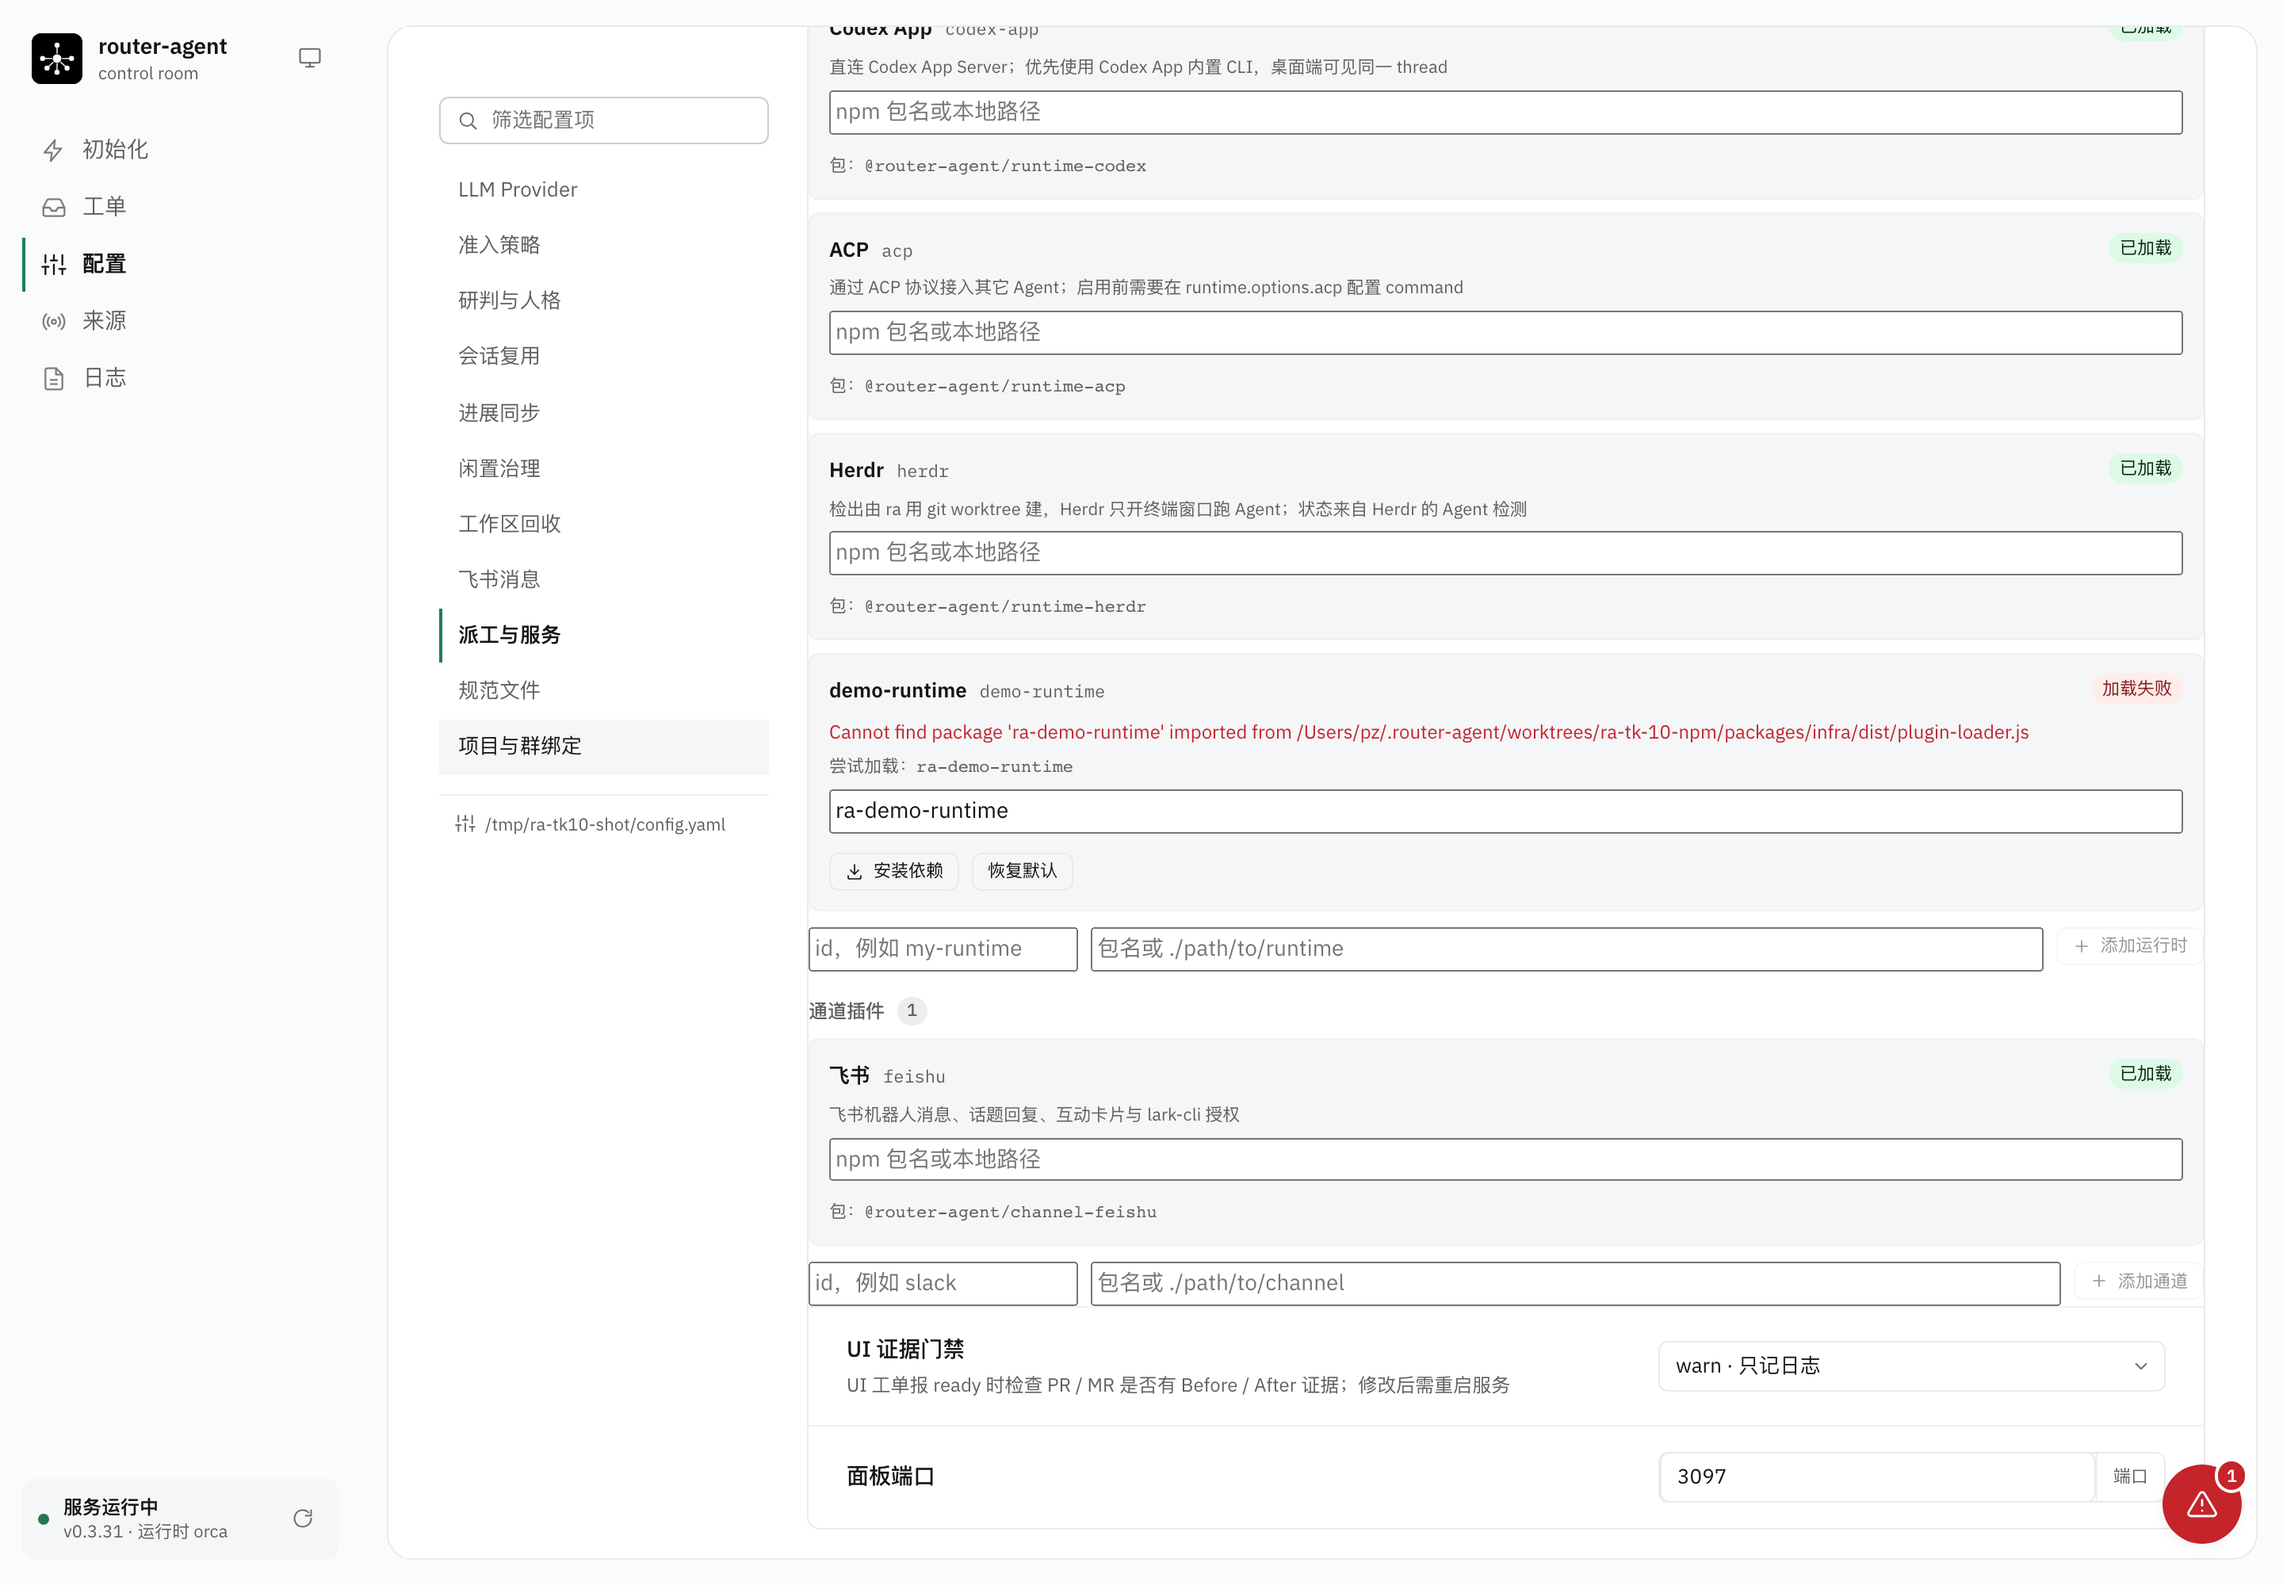
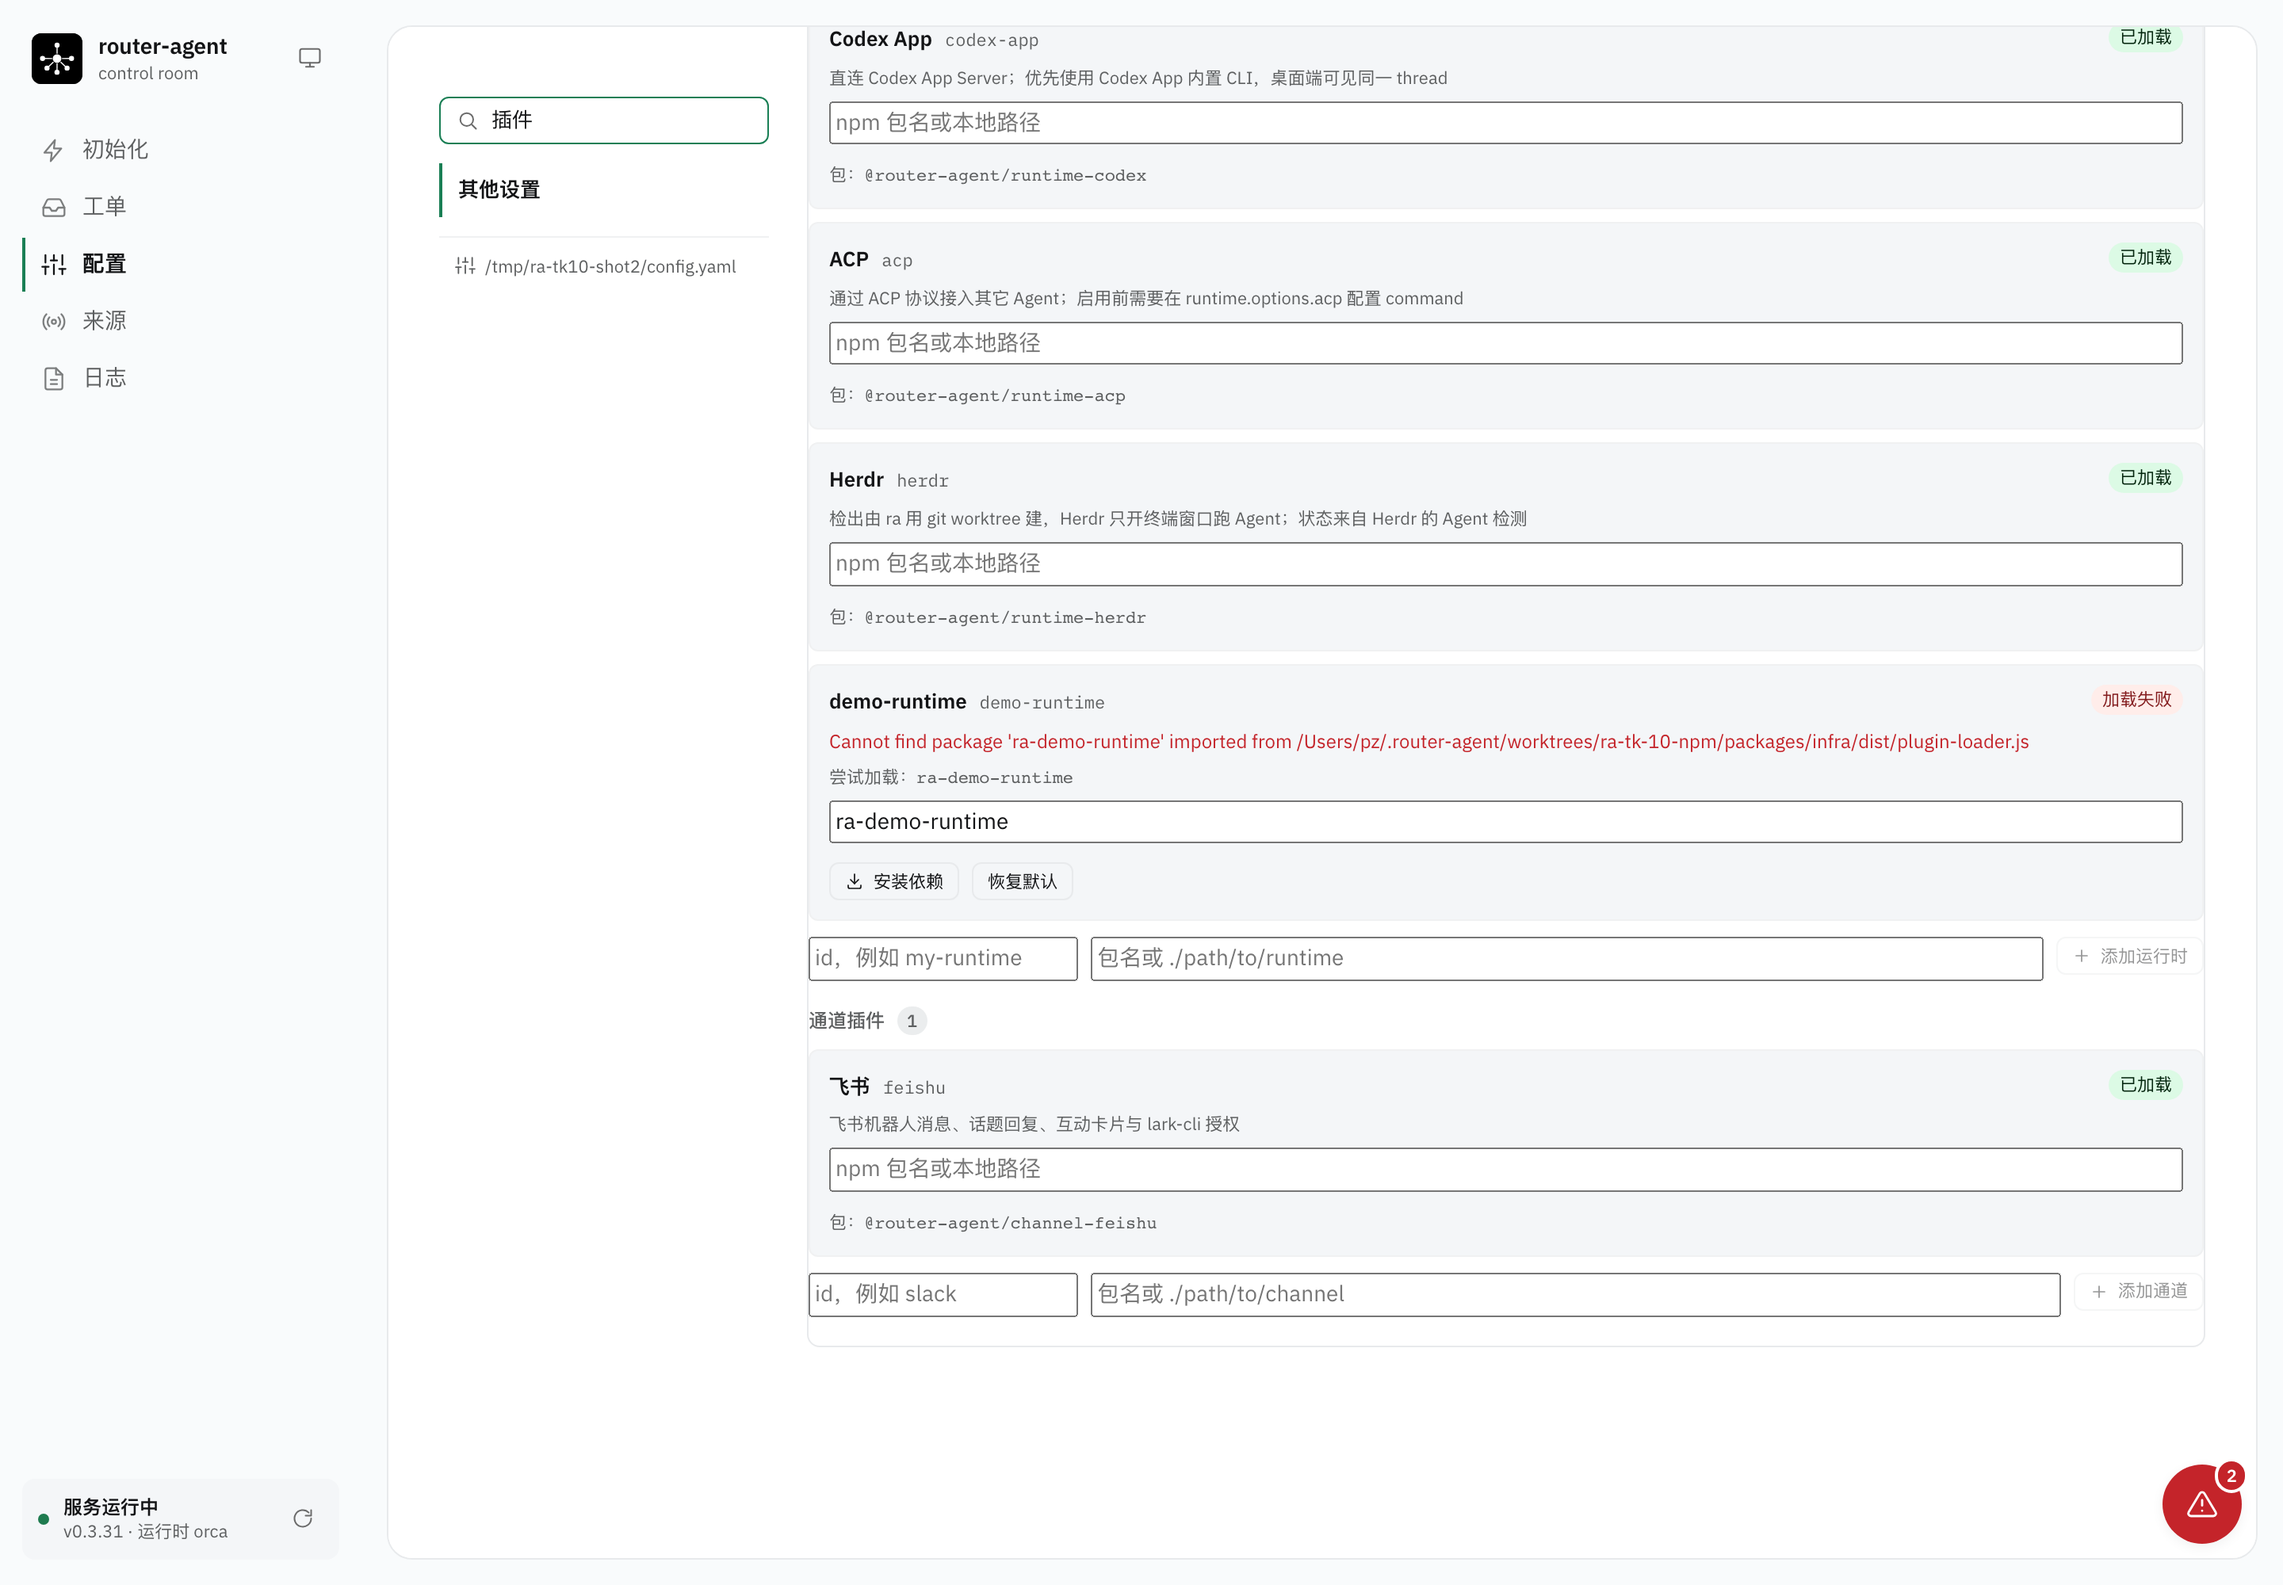
fix(web): 配置块折叠开关可再次展开
折叠块点标题后仍保持折叠（把 open 写回 collapsed），导致「插件」等默认折叠块无法打开；
改为写入 !open，并同步新版配置页的插件安装截图。

diff --git a/src/web/client/app.tsx b/src/web/client/app.tsx
@@ -1560,7 +1560,7 @@ function ConfigView({ restarting, onRestart, onDirtyChange, focusSection, onFocu
         effect={effect}
         dirty={blockDirty(block)}
         open={open}
-        onToggle={() => setCollapsed(current => ({ ...current, [block.id]: open }))}
+        onToggle={() => setCollapsed(current => ({ ...current, [block.id]: !open }))}
       >
         {open ? body() : null}
       </ConfigBlockView>

diff --git a/docs/assets/plugin-install/README.md b/docs/assets/plugin-install/README.md
@@ -1,6 +1,6 @@
 # 插件依赖安装 · 界面 Before / After
 
-同一场景（配置 → 派工与服务 → 运行时插件）、同一视口（1440×1000 @2x）、同一主题（浅色）。
+同一场景（配置 → 其他设置 → 插件，搜索「插件」展开）、同一视口（1440×1000 @2x）、同一主题（浅色）。
 
 场景：`config.yaml` 里已声明 `runtime.plugins.demo-runtime: ra-demo-runtime`，
 但 npm 包还没下载到 `<RA_HOME>/node_modules`，插件加载失败。
